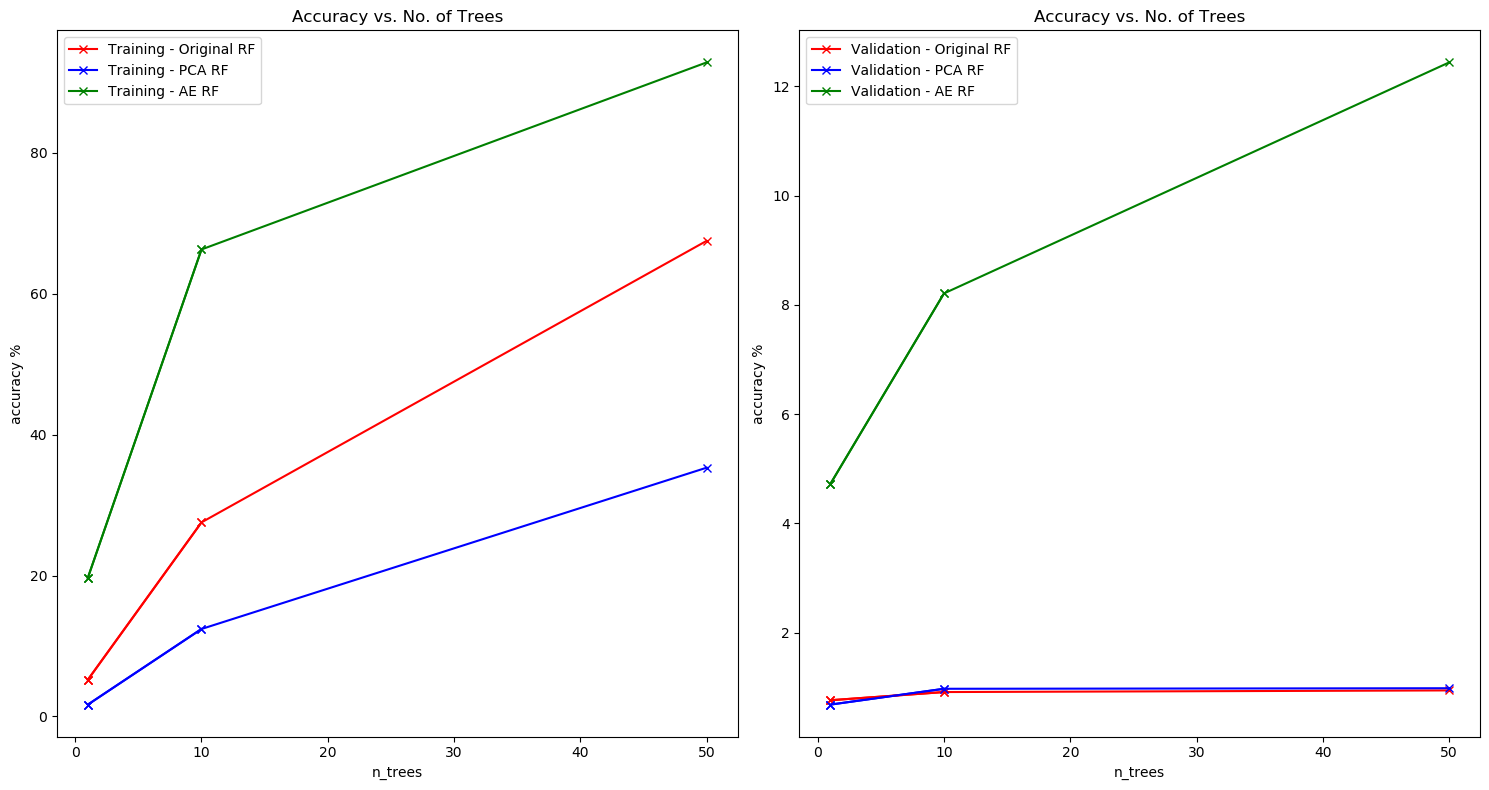
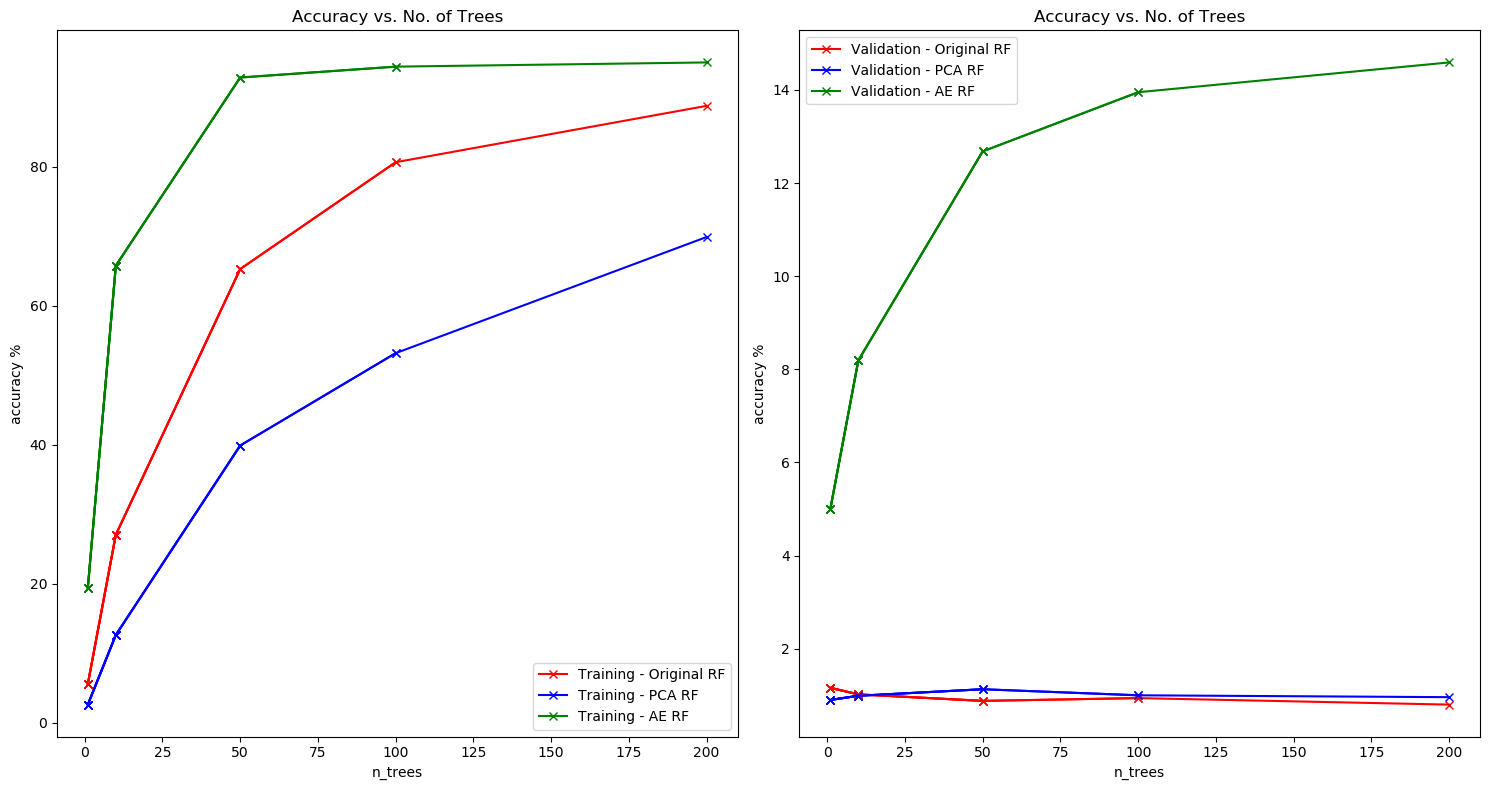
commit update code and add more results

diff --git a/RandomForests/RF_Part3.py b/RandomForests/RF_Part3.py
@@ -15,6 +15,7 @@ import torch.nn.functional as F
 from torchvision import datasets
 from torchvision import transforms
 from torch.utils.data import DataLoader
+import pickle
 
 if torch.cuda.is_available():
 		torch.backends.cudnn.deterministic = True
@@ -376,9 +377,11 @@ for n_estimators in [1, 10, 50, 100, 200, 500, 1000, 5000]:
 	rf_clf_PCA.n_estimators = n_estimators
 	rf_clf_AE.n_estimators = n_estimators
 
-	for filename, clf in [(parameter_identifier_orig, rf_clf_Original)
-						(parameter_identifier_pca, rf_clf_PCA),
-						(parameter_identifier_ae, rf_clf_AE)]:
+	for filename, clf in [
+					(parameter_identifier_orig, rf_clf_Original),
+					(parameter_identifier_pca, rf_clf_PCA),
+					(parameter_identifier_ae, rf_clf_AE)
+						]:
 
 		if os.path.exists(filename):
 			with open(filename, "rb") as file:

diff --git a/RandomForests/RF_Part2.py b/RandomForests/RF_Part2.py
@@ -443,7 +443,7 @@ history = []
 n_estimators = 1
 my_RF_model = RandomForestClassifier(n_estimators= n_estimators, criterion='gini', max_depth= max(50, n_estimators/10), min_samples_split=30, n_jobs = None, warm_start=True)
 
-for n_estimators in [1, 10, 50, 100, 200, 500, 1000, 5000]:
+for n_estimators in [1, 10, 25, 35, 40, 50, 100, 200, 500, 1000, 5000]:
 #for n_estimators in [1, 5]:
 
 	parameter_identifier = f"RF_P2_n_estimators={my_RF_model.n_estimators}, max_depth= {my_RF_model.max_depth}.rfmodel"
